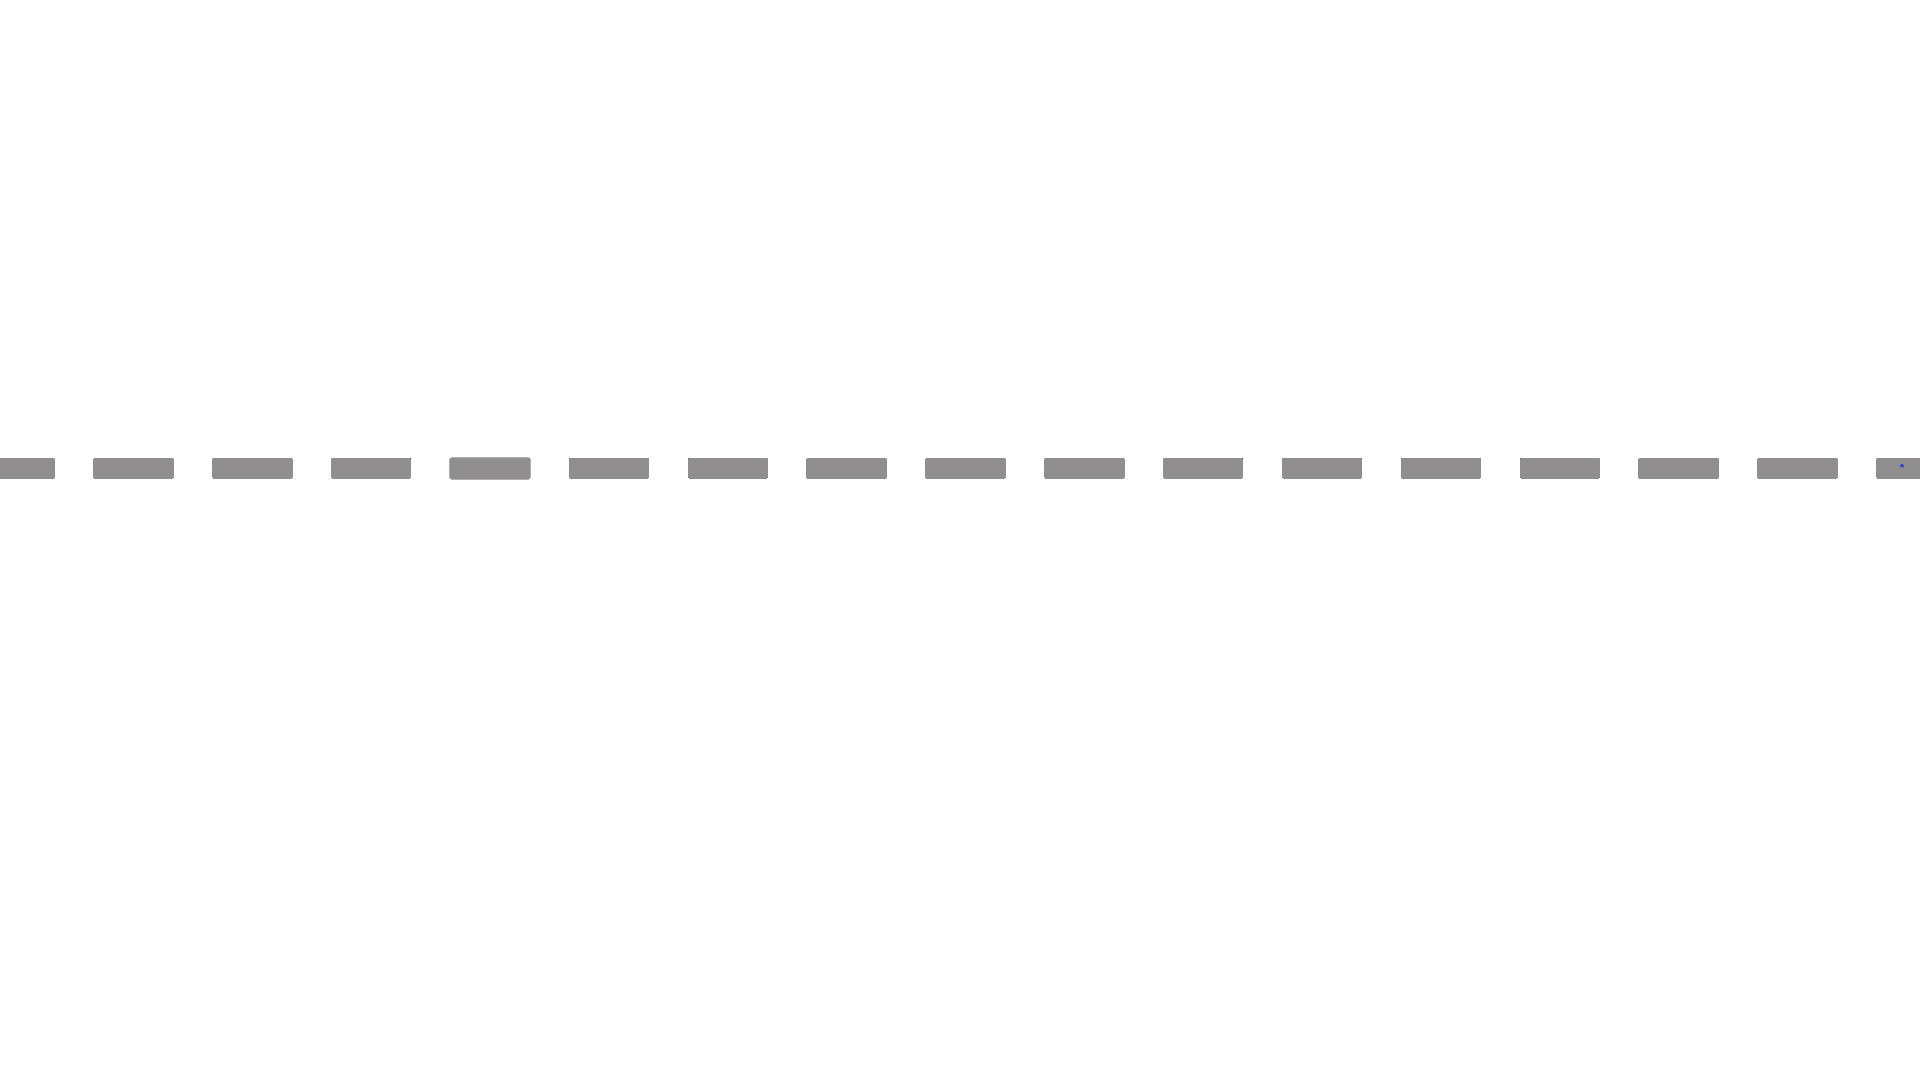
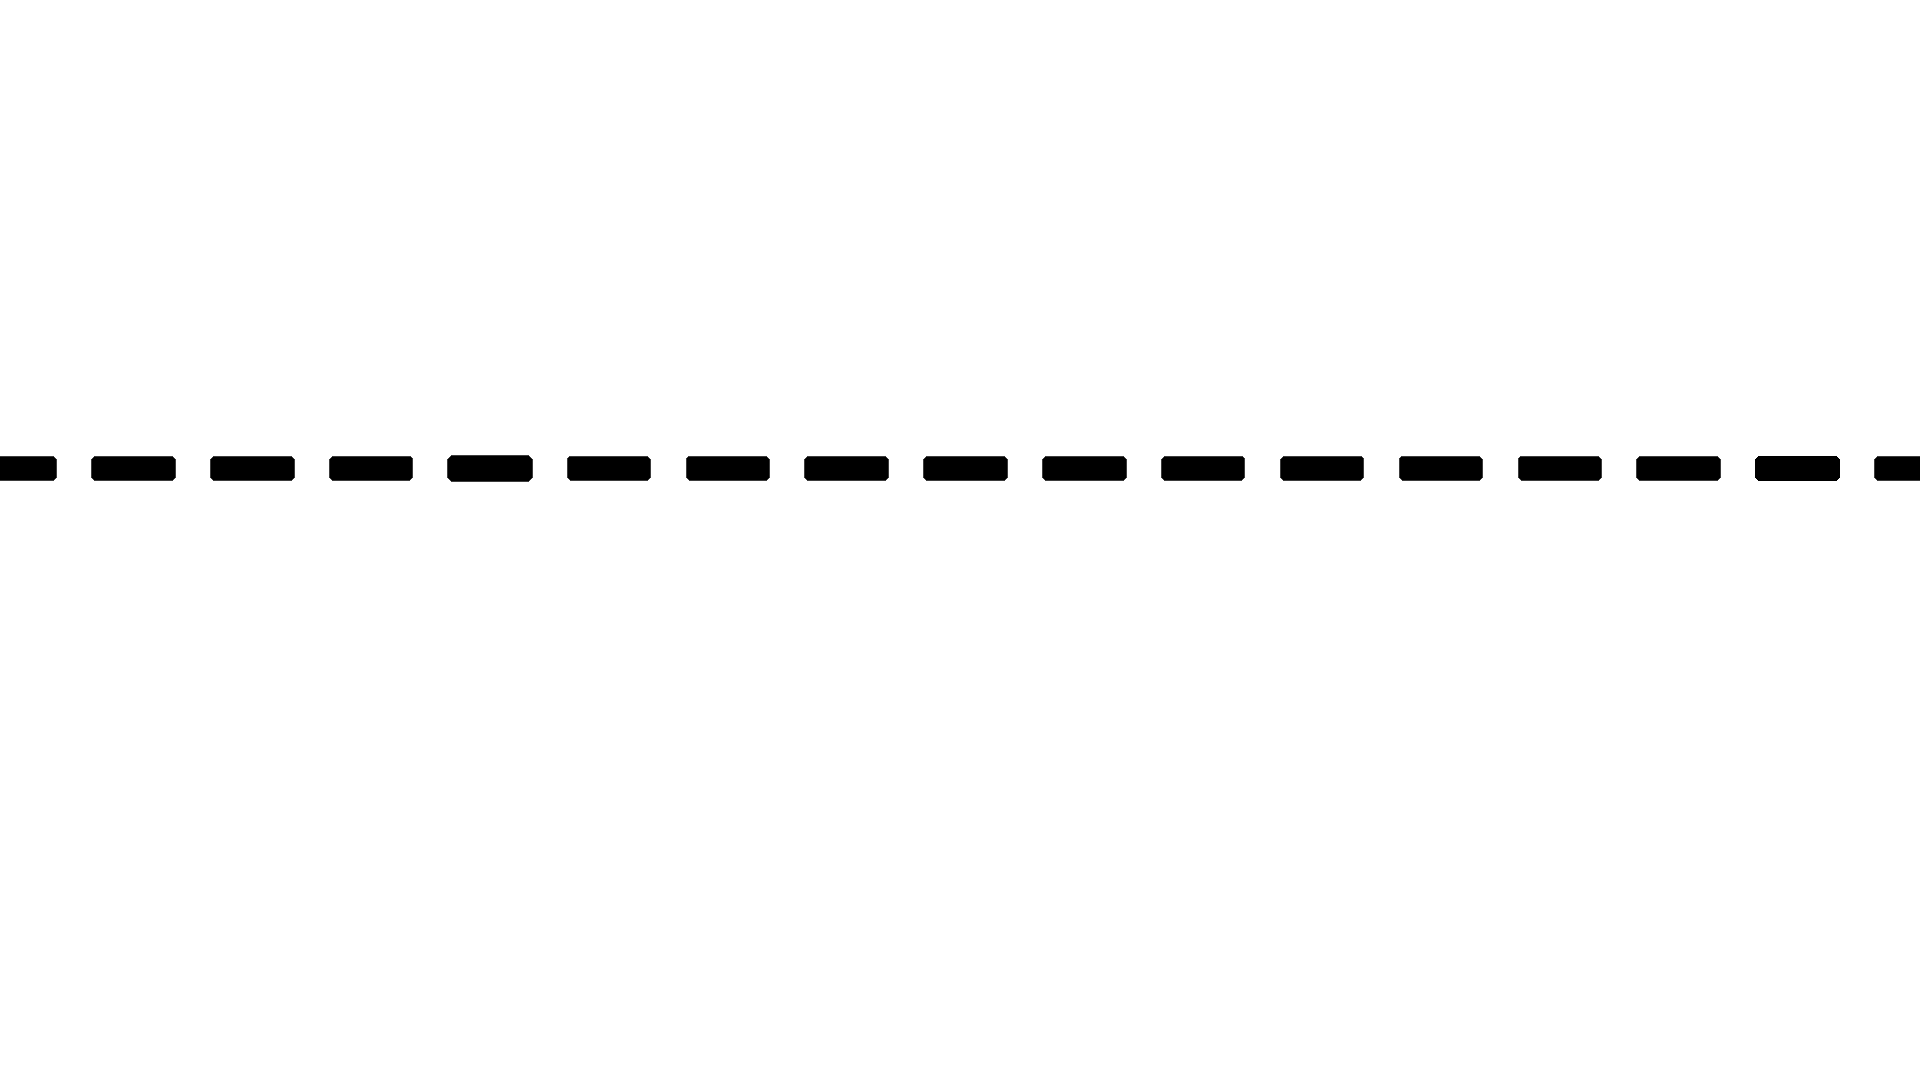
attacker animation

Changed region(s): [[0.0, 0.3972, 1.0, 0.4583]]

diff --git a/js/user2.js b/js/user2.js
@@ -1,8 +1,10 @@
 var user2_router = false;
 (function () {
     document.getElementById("line2").style.display = "none";
+    document.getElementById("line3").style.display = "none";
     document.getElementById("e2").style.display = "none";
     document.getElementById("e3").style.display = "none";
+    document.getElementById("e4").style.display="none";
 })();
 $('.terminal-1').terminal({
     cat: function (width, height) {
@@ -56,7 +58,50 @@ $('.terminal-1').terminal({
             this.echo($('<p style="color:#FF355E"> No connection found [argument provided is either inncorrect or unkown]!</p>'));
             return;
         }
+    },
+    arp_attack_to_client: function(ip_addressclient){
+        if(ip_addressclient!="192.168.32.5"){
+            this.echo($('<p style="color:#FF355E"> No connection found [argument provided is either inncorrect or unkown]!</p>'));
+            return;
+        }
+        else{
+            //TODO: check for connection b/w client1 and router and client 2 and router
+            //TODO: change table
+            var red_env=document.getElementById("e4");
+            //display red packet
+            red_env.style.display="block";
+            //display momement of red packet to fro
+            red_env.classList.add("attacker_to_client");
+            // establish line
+            setTimeout(function(){
+                document.getElementById("line3").style.display="block"
+            },8500);
+            //hide packet
+            setTimeout(function(){
+                red_env.classList.remove("attacker_to_client")
+                red_env.style.display="none";
+            },8600);
+            //reappear packet
+            setTimeout(function(){
+                red_env.style.display="block";
+            },9100);
+            //packet to and fro to router
+            setTimeout(function(){
+                red_env.classList.add("client_2_router")
+            },9200);
+            //hide victim and router line
+            setTimeout(function(){
+                document.getElementById("line1").style.display="none";
+            },17800);
+            
+            //fix here what to display after attack  
+             return "attack_done";
+            
+
+        }
+
     }
+
 }, {
         greetings: 'Bash --Terminal\n'
     });

diff --git a/style.css b/style.css
@@ -105,6 +105,14 @@
     left: 45%;
     top: 45%;
 }
+.attacker{
+    position:fixed;
+    display: block;
+    height:50px;
+    width:50px;
+    top:9%;
+    left:19%
+}
 
 .client_1_router{
   animation: c1r 4s ease-in-out 1s 2 both alternate;
@@ -113,6 +121,10 @@
 .client_2_router{
   animation: c2r 4s ease-in-out 1s 2 both alternate;
 }
+.attacker_to_client{
+    animation: atc 4s ease-in-out 1s 2 both alternate;
+}
+
 
 @keyframes c1r{
   0%{top:8%;left: 76.5%;}
@@ -121,4 +133,16 @@
 @keyframes c2r{
   0%{top:8%;left: 18.5%;}
   100% {top: 45%; left: 49.7%;}
+}
+@keyframes atc{
+    0%{
+        top:8%;
+        left:18.5%;
+
+    }
+    100%{
+        top:8%;
+        left:76.5%;
+
+    }
 }

diff --git a/index.html b/index.html
@@ -28,12 +28,13 @@
     <img class="laptop_2" src="images/laptop-03.png" width="150" alt="">
     <img id="line2" class="line-2" src="images/line.png">
 
-    <img class="envelope_red env-position4" src="images/envelope_red.png">
-    <img class="line-3" src="images/line.png">
+    <img class="envelope_red env-position4" id="e4" src="images/envelope_red.png">
+    <img class="line-3" id="line3" src="images/line.png">
 
     <img class="router_1" src="images/router-01.png" width="150" alt="">
 
     <img id="e3" class="envelope_tick env-position3" src="images/envelope_tick.png">
+    <img class="attacker" id="at_man" src="images/attacker.png">
 
 
 </body>
